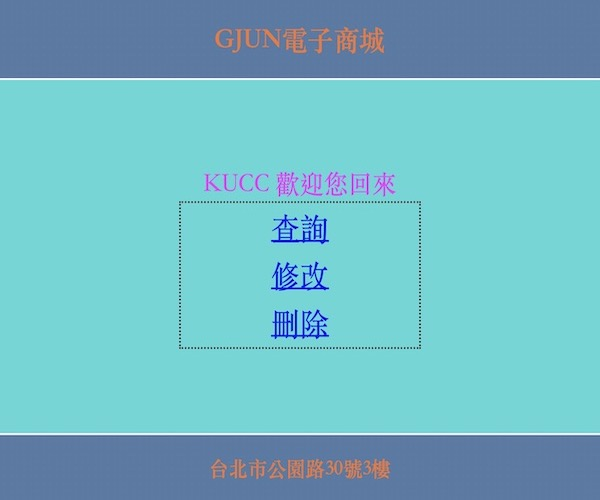
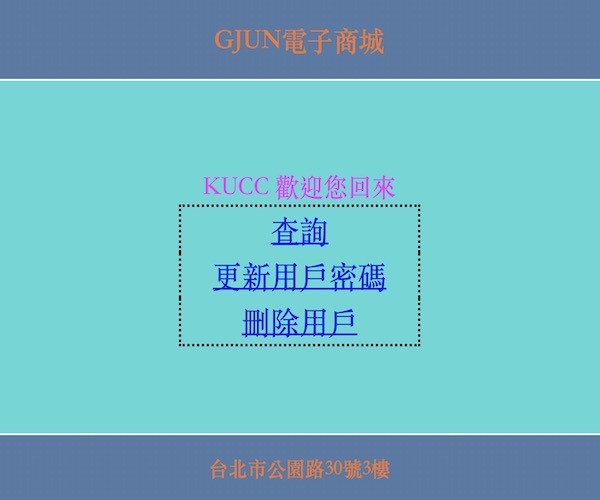
amend

diff --git a/(ing)ElectronicMall-2.md b/(ing)ElectronicMall-2.md
@@ -30,9 +30,9 @@
 				<tr>
 					<td class="row"><a href="../admin/query.jsp">查詢</a>
 				<tr>
-					<td class="row"><a href="../admin/update.jsp">修改</a>
+					<td class="row"><a href="../admin/update.jsp">更新用戶密碼</a>
 				<tr>
-					<td class="row"><a href="../admin/delete.jsp">刪除</a>
+					<td class="row"><a href="../admin/delete.jsp">刪除用戶</a>
 				
 			</table>
 		<tr>
